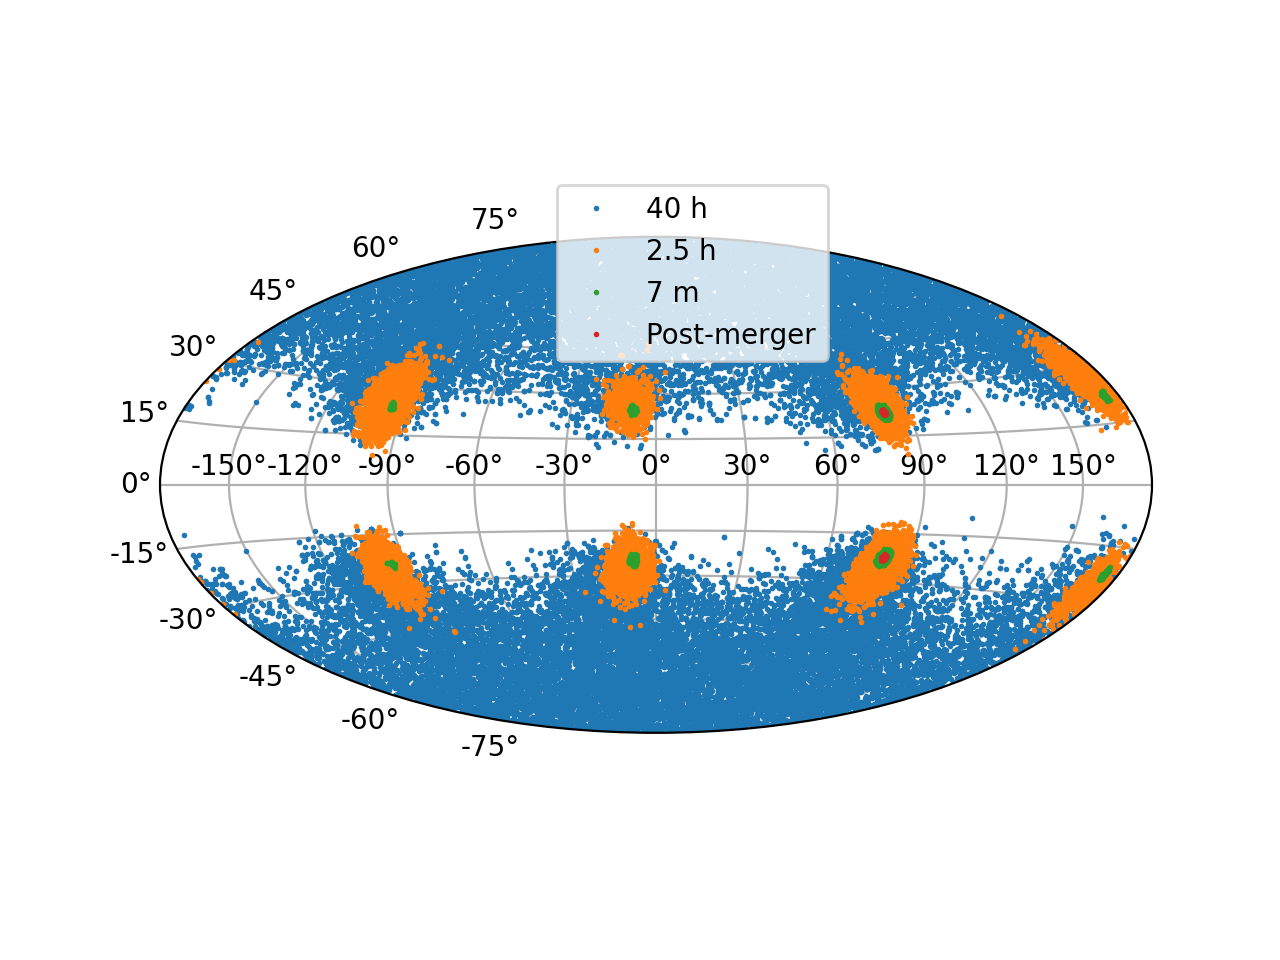
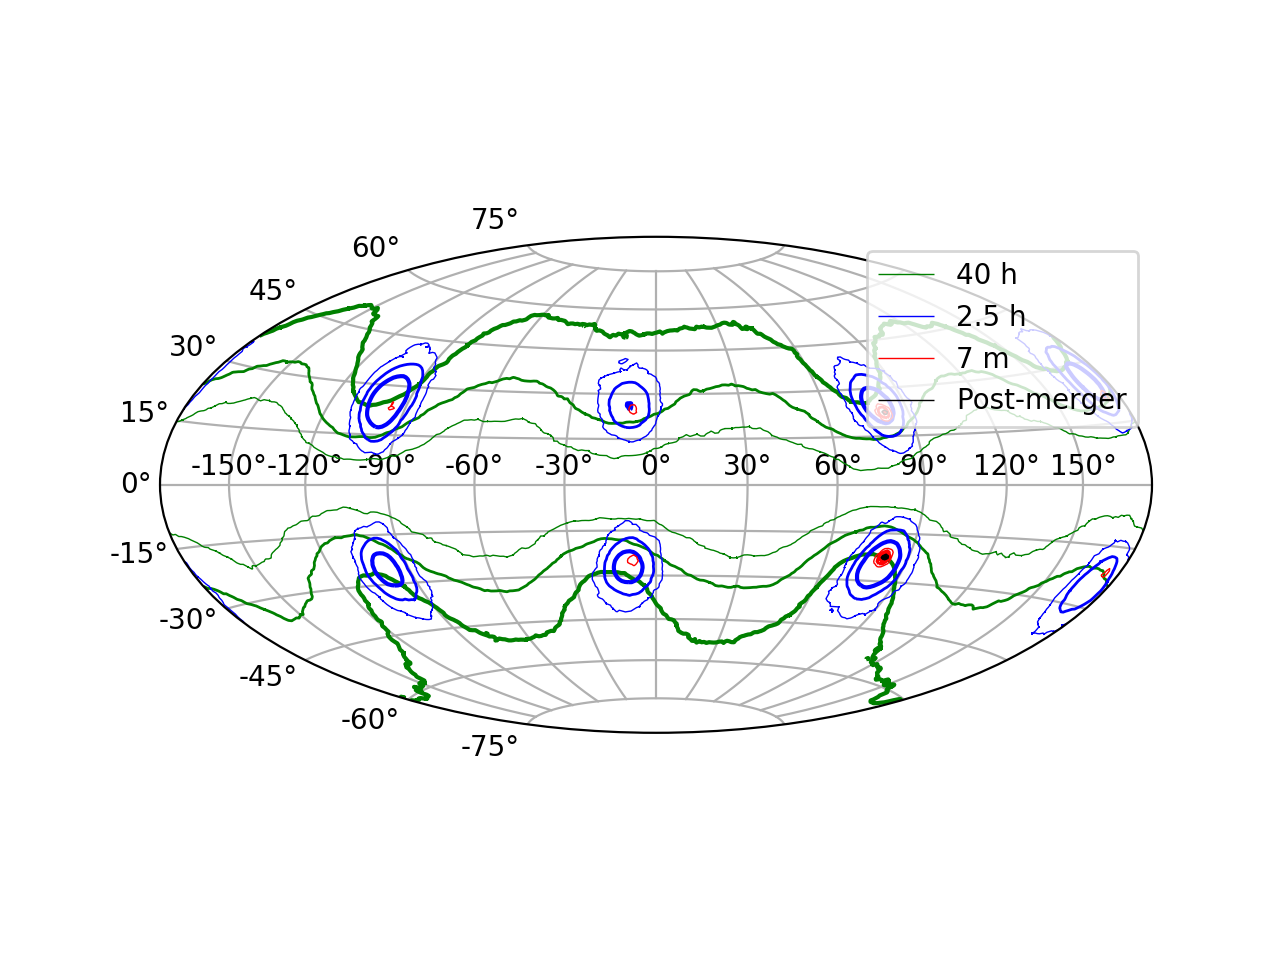
Data : update of the L-frame plot using contour plot for t-series.

diff --git a/data/t-series-mcmc-results/skyplot_Lframe.py b/data/t-series-mcmc-results/skyplot_Lframe.py
@@ -1,18 +1,40 @@
 import numpy as np
 import pylab as pl
+from sklearn.neighbors.kde import KernelDensity
+
 
 fig = pl.figure()
 ax = fig.add_subplot(1, 1, 1, projection='hammer')
 
 labels = ['40 h', '2.5 h', '7 m', 'Post-merger']
+colors = ['g', 'b', 'r', 'k']
+bandwidths = [0.2, 0.05, 0.01, 0.005]
 
-for i, label in zip([64, 16, 4, 1], labels):
+for i, label, color, bw in zip([64, 16, 4, 1], labels, colors, bandwidths):
+    print(i)
     data = np.loadtxt('STP_09_lm55_t{:02d}_joint_resampled_Lframe.dat'.format(i))
     ra, dec = data[:,8], data[:,9]
     #ra -= np.pi
 
-    ax.plot(ra, dec, 'o', markeredgewidth=0, markersize=2, label=label)
+    # create the KDE estimator
+    # we could use grid-search cross validation to estimate the bandwidth here
+    radec = np.vstack((dec, ra)).T
+    kde = KernelDensity(kernel='tophat', bandwidth=bw, metric='haversine').fit(radec)
+
+    # find the density levels corresponding to 1, 2, 3 sigmas
+    n = 10000
+    sample = kde.sample(n)
+    sample_densities = np.sort(np.exp(kde.score_samples(sample)))
+    levels = [sample_densities[int(n * (1 - p))] for p in [0.9973, 0.9545, 0.6827]]
+
+    gra = np.linspace(-np.pi, np.pi, 300)
+    gdec = np.linspace(-np.pi/2, np.pi/2, 300)
+    ggra, ggdec = np.meshgrid(gra, gdec)
+    d = np.exp(kde.score_samples(np.vstack((ggdec.ravel(), ggra.ravel())).T))
+    d = np.reshape(d, ggra.shape)
+    cs = ax.contour(gra, gdec, d, colors=color, linewidths=[0.5, 1, 1.5], levels=levels)
+    cs.collections[0].set_label(label)
 
 ax.grid()
-ax.legend(loc=[0.4, 0.75])
+ax.legend()
 pl.savefig('skymap_Lframe.png', dpi=200)
